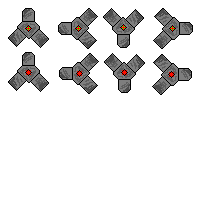
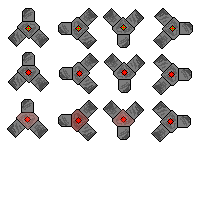
added damage animation for deepspin and fixed bug with damage animation interrupting another damage animation

diff --git a/source/core/src/main/com/csse3200/game/rendering/AnimationRenderComponent.java b/source/core/src/main/com/csse3200/game/rendering/AnimationRenderComponent.java
@@ -153,9 +153,8 @@ public class AnimationRenderComponent extends RenderComponent {
    * specified by the nextName parameter.
    * @requires currentName references a normal animation (non looping).
    * @param currentName name of the animation to play.
-   * @param nextName name of the animation to play after the current animation is done.
    */
-  public void playAnimationOnce(String currentName, String nextName) {
+  public void playAnimationOnce(String currentName) {
     Animation<TextureRegion> animation = animations.getOrDefault(currentName, null);
     if (animation == null) {
       startAnimation(currentName); // null errors are handled in here
@@ -166,9 +165,16 @@ public class AnimationRenderComponent extends RenderComponent {
       return;
     }
 
-    startAnimation(currentName);
+    if (stopIfDone) { // already playing a one loop animation
+      String temp = nextAnimationName;
+      startAnimation(currentName);
+      nextAnimationName = temp;
+    } else {
+      String temp = currentAnimationName;
+      startAnimation(currentName);
+      nextAnimationName = temp;
+    }
     stopIfDone = true;
-    nextAnimationName = nextName;
   }
 
   /**

diff --git a/source/core/src/main/com/csse3200/game/entities/factories/characters/NPCFactory.java b/source/core/src/main/com/csse3200/game/entities/factories/characters/NPCFactory.java
@@ -147,6 +147,7 @@ public class NPCFactory {
     animator.setDisposeAtlas(false);
     animator.addAnimation("angry_float", 0.1f, Animation.PlayMode.LOOP);
     animator.addAnimation("float", 0.1f, Animation.PlayMode.LOOP);
+    animator.addAnimation("damage_taken", 0.1f, Animation.PlayMode.NORMAL);
 
     AITaskComponent aiComponent =
             new AITaskComponent()

diff --git a/source/core/src/main/com/csse3200/game/components/npc/GhostAnimationController.java b/source/core/src/main/com/csse3200/game/components/npc/GhostAnimationController.java
@@ -28,6 +28,6 @@ public class GhostAnimationController extends Component {
   }
 
   void animateDamageTaken() {
-    animator.playAnimationOnce("damage_taken", animator.getCurrentAnimation());
+    animator.playAnimationOnce("damage_taken");
   }
 }
